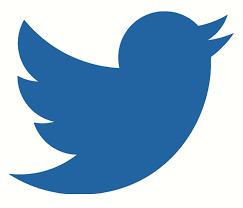
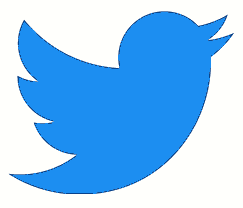
change layout
moved my social media links to below my name, makes more sense. links at bottom one might think are for sharing the page to their own social media

diff --git a/components/layout.js b/components/layout.js
@@ -60,23 +60,14 @@ export default function Layout({ children, home }) {
           </>
         )}
       </header>
-      <main className="flex flex-col py-2">{children}</main> 
-      {!home && (
-        <div className={styles.backToHome}>
-          <Link href="/">
-            <a className="text-blue-600">← Back to home</a>
-          </Link>
-        </div>
-      )}
-      <footer className="padding100px headinglarge">
-        <div className={utilStyles.footman}>
+      <div className={utilStyles.footman}>
         <Link href="https://github.com/kbrandenburg">
           <a>
             <Image
               priority
               src="/images/github.png"
-              height={50}
-              width={50}
+              height={35}
+              width={35}
               alt="Github"
             />
           </a>
@@ -87,13 +78,23 @@ export default function Layout({ children, home }) {
             <Image
               priority
               src="/images/twitter2.png"
-              height={50}
-              width={50}
+              height={35}
+              width={39}
               alt="Twitter"
             />
           </a>
         </Link>
         </div>
+      <main className="flex flex-col py-2">{children}</main> 
+      {!home && (
+        <div className={styles.backToHome}>
+          <Link href="/">
+            <a className="text-blue-600">← Back to home</a>
+          </Link>
+        </div>
+      )}
+      <footer className="padding100px headinglarge">
+        
       </footer>
     </div>
     

diff --git a/pages/posts/first-post.js b/pages/posts/first-post.js
@@ -8,9 +8,11 @@ export default function FirstPost() {
             { console.log(process.env.TEST_VAR) }
             <h1>Rocket League</h1>
             <p>This is my first experiment using the next.js framework.</p>
-            <p>I am platinum 1 ranked in rocket league. A little bit rusty, I took quite the break. Hoping to get back to Plat 3 at least soon.</p>
-            <p>I am using the amazon luna controller, it is pretty nice. The xbox one controllers never last me more than a few months. Maybe I get too excited when I play.</p>
-            <p>Not super stoked about EPIC games acquiring psyonix.</p>
+            <p>I am diamond 2 ranked in rocket league. I was grandfathered in to being able to play on steam, 
+              if you want to play the game today you have to download it on the epic games store.</p>
+            <p>I am using the amazon luna controller, it is pretty nice. The xbox one controllers never seem to last me more 
+              than a few months. I guess I play some intense games. The controller typically develops a drifting issue.</p>
+            
         </Layout>
     )
 }

diff --git a/styles/utils.module.css b/styles/utils.module.css
@@ -38,7 +38,7 @@
   }
 
   .footman {
-    padding-top: 10px;
+    /*padding-top: 10px;*/
     text-align: center;
   }
   
